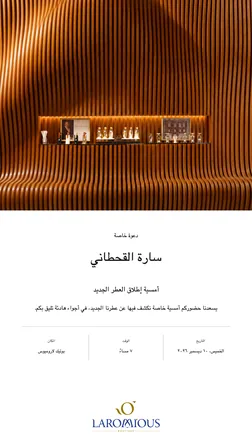
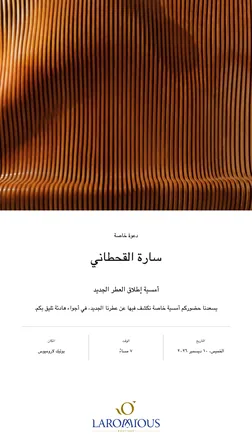
Use one bright, shelf-free wall photo for every design
The wall photo now has the original photo's light, warm colours instead
of a darker grade, and the classic design uses it too, so no design shows
the shelf. The shelf photo is no longer used and is removed. Design
thumbnails are re-rendered with the new photo.

Changed region(s): [[0.0, 0.0, 1.0, 0.4688]]

diff --git a/index.html b/index.html
@@ -6,39 +6,39 @@
     <meta name="theme-color" content="#071f4c" />
     <meta name="description" content="Laromious Invitation Studio: design a personalised Arabic invitation card and download it as a high-resolution image." />
     <title>Laromious Invitation Studio</title>
-    <link rel="stylesheet" href="css/fonts.css?v=202611081706" />
-    <link rel="stylesheet" href="css/app.css?v=202611081706" />
+    <link rel="stylesheet" href="css/fonts.css?v=202611081724" />
+    <link rel="stylesheet" href="css/app.css?v=202611081724" />
     <!-- Versions every module URL, so a new release never mixes with cached modules. Update with `npm run stamp`. -->
     <script type="importmap">
       {
         "imports": {
-          "./js/card/canvas-preview.js": "./js/card/canvas-preview.js?v=202611081706",
-          "./js/card/canvas.js": "./js/card/canvas.js?v=202611081706",
-          "./js/card/designs/classic.js": "./js/card/designs/classic.js?v=202611081706",
-          "./js/card/designs/gallery.js": "./js/card/designs/gallery.js?v=202611081706",
-          "./js/card/designs/index.js": "./js/card/designs/index.js?v=202611081706",
-          "./js/card/designs/night.js": "./js/card/designs/night.js?v=202611081706",
-          "./js/card/designs/shared.js": "./js/card/designs/shared.js?v=202611081706",
-          "./js/card/geometry.js": "./js/card/geometry.js?v=202611081706",
-          "./js/card/layout.js": "./js/card/layout.js?v=202611081706",
-          "./js/card/model.js": "./js/card/model.js?v=202611081706",
-          "./js/card/paint.js": "./js/card/paint.js?v=202611081706",
-          "./js/card/preview.js": "./js/card/preview.js?v=202611081706",
-          "./js/card/text-fit.js": "./js/card/text-fit.js?v=202611081706",
-          "./js/editor/design-picker.js": "./js/editor/design-picker.js?v=202611081706",
-          "./js/editor/font-picker.js": "./js/editor/font-picker.js?v=202611081706",
-          "./js/editor/photo.js": "./js/editor/photo.js?v=202611081706",
-          "./js/editor/validation.js": "./js/editor/validation.js?v=202611081706",
-          "./js/fonts.js": "./js/fonts.js?v=202611081706",
-          "./js/i18n/ar.js": "./js/i18n/ar.js?v=202611081706",
-          "./js/i18n/en.js": "./js/i18n/en.js?v=202611081706",
-          "./js/i18n/index.js": "./js/i18n/index.js?v=202611081706",
-          "./js/lib/datetime.js": "./js/lib/datetime.js?v=202611081706",
-          "./js/lib/filename.js": "./js/lib/filename.js?v=202611081706"
+          "./js/card/canvas-preview.js": "./js/card/canvas-preview.js?v=202611081724",
+          "./js/card/canvas.js": "./js/card/canvas.js?v=202611081724",
+          "./js/card/designs/classic.js": "./js/card/designs/classic.js?v=202611081724",
+          "./js/card/designs/gallery.js": "./js/card/designs/gallery.js?v=202611081724",
+          "./js/card/designs/index.js": "./js/card/designs/index.js?v=202611081724",
+          "./js/card/designs/night.js": "./js/card/designs/night.js?v=202611081724",
+          "./js/card/designs/shared.js": "./js/card/designs/shared.js?v=202611081724",
+          "./js/card/geometry.js": "./js/card/geometry.js?v=202611081724",
+          "./js/card/layout.js": "./js/card/layout.js?v=202611081724",
+          "./js/card/model.js": "./js/card/model.js?v=202611081724",
+          "./js/card/paint.js": "./js/card/paint.js?v=202611081724",
+          "./js/card/preview.js": "./js/card/preview.js?v=202611081724",
+          "./js/card/text-fit.js": "./js/card/text-fit.js?v=202611081724",
+          "./js/editor/design-picker.js": "./js/editor/design-picker.js?v=202611081724",
+          "./js/editor/font-picker.js": "./js/editor/font-picker.js?v=202611081724",
+          "./js/editor/photo.js": "./js/editor/photo.js?v=202611081724",
+          "./js/editor/validation.js": "./js/editor/validation.js?v=202611081724",
+          "./js/fonts.js": "./js/fonts.js?v=202611081724",
+          "./js/i18n/ar.js": "./js/i18n/ar.js?v=202611081724",
+          "./js/i18n/en.js": "./js/i18n/en.js?v=202611081724",
+          "./js/i18n/index.js": "./js/i18n/index.js?v=202611081724",
+          "./js/lib/datetime.js": "./js/lib/datetime.js?v=202611081724",
+          "./js/lib/filename.js": "./js/lib/filename.js?v=202611081724"
         }
       }
     </script>
-    <script type="module" src="js/main.js?v=202611081706"></script>
+    <script type="module" src="js/main.js?v=202611081724"></script>
   </head>
   <body>
     <div class="app-shell">
@@ -227,7 +227,7 @@
                 <div class="field-group">
                   <span class="field-label" id="photoLabel" data-i18n="photoLabel"></span>
                   <div class="photo-picker" role="group" aria-labelledby="photoLabel">
-                    <img class="photo-thumb" id="photoThumb" src="assets/wood-room-enhanced.png" alt="" />
+                    <img class="photo-thumb" id="photoThumb" src="assets/wood-wall.webp" alt="" />
                     <div class="photo-copy">
                       <p class="photo-name" id="photoName"></p>
                       <p class="field-hint" id="photoHint" data-i18n="photoHint"></p>
@@ -322,7 +322,7 @@
               <!-- The card is always Arabic; js/card/preview.js fills every [data-slot]. -->
               <div class="invitation-card" id="invitationPreview" role="img" lang="ar" dir="rtl">
                 <div class="card-hero">
-                  <img class="hero-photo" data-slot="photo" src="assets/wood-room-enhanced.png" alt="" />
+                  <img class="hero-photo" data-slot="photo" src="assets/wood-wall.webp" alt="" />
                   <div class="hero-tint"></div>
                 </div>
                 <div class="card-body">

diff --git a/js/card/designs/classic.js b/js/card/designs/classic.js
@@ -9,7 +9,7 @@ import { computeLayout } from "../layout.js";
 export const classic = {
   id: "classic",
   copyKey: "designClassic",
-  photo: "assets/wood-room-enhanced.png",
+  photo: "assets/wood-wall.webp",
   thumbnail: "assets/designs/classic.webp",
   fonts: { name: null, text: null },
   livePreview: "markup",

diff --git a/README.md b/README.md
@@ -29,8 +29,8 @@ card model, so switching keeps everything typed in.
 | Gallery | `js/card/designs/gallery.js` | Full-bleed photo, dark shade, cream and gold text | Aref Ruqaa name, Almarai text |
 | Navy Night | `js/card/designs/night.js` | Navy card, gold-framed photo, ruled details strip | El Messiri (name in 600) |
 
-Each design brings its own default photo; an uploaded photo stays across
-designs. The font pickers work the same in every design: a font picked by hand
+Every design starts from the same wall photo (`assets/wood-wall.webp`); a design
+can name its own in its module. An uploaded photo stays across designs. The font pickers work the same in every design: a font picked by hand
 always wins, and "Default" means the design's own font.
 
 To add a design: write a module exporting `{ id, copyKey, photo, thumbnail,
